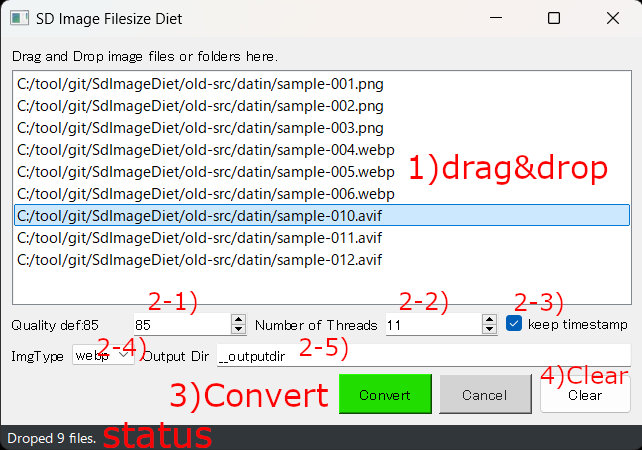
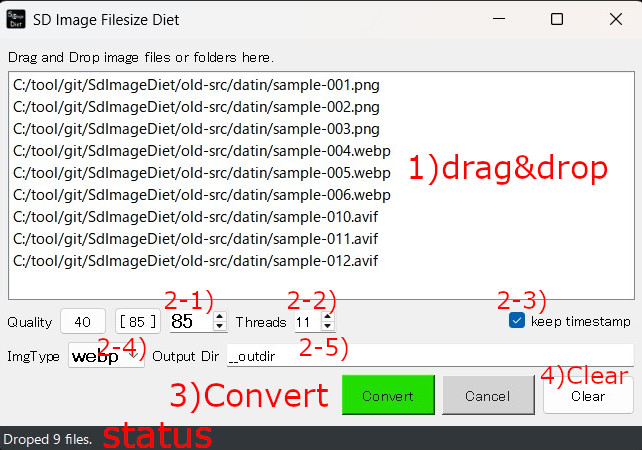
0.1.7 QualityとImgTypeを少し目立つように修正、他

diff --git a/SdImageDietGUI.py b/SdImageDietGUI.py
@@ -23,6 +23,8 @@ OUTPUT_DIRNAME = "setting-outputdirname"
 SOUND_NG = "sound-ng"
 SOUND_OK = "sound-ok"
 
+QUALITY_LIST = (40,85)
+
 # マルチスレッド用ワーカークラス
 class Worker(QRunnable):
     def __init__(self, infile, outdir, imgtype, quality, keepTimestamp, on_complete):
@@ -105,19 +107,26 @@ class MainWindow(QMainWindow):
         # 設定値レイアウト１（横並び）
         self.settingLayout1 = QHBoxLayout()
         # 品質設定のラベルとスピンボックス
-        self.settingLayout1.addWidget(QLabel('Quality def:85'))
+        self.settingLayout1.addWidget(QLabel('Quality'))
+        self.convertBtns = []
+        for i in range(len(QUALITY_LIST)):
+            self.convertBtns.append(QPushButton(str(QUALITY_LIST[i])))
+            self.convertBtns[i].setFixedWidth(48)
+            self.settingLayout1.addWidget(self.convertBtns[i])
         self.qualitySpinBox = QSpinBox()
         self.qualitySpinBox.setMinimum(1)  # 最小1
         self.qualitySpinBox.setMaximum(100)  # 最大100
         self.qualitySpinBox.setValue(self.quality)  # 初期値85
+        self.qualitySpinBox.setStyleSheet("QSpinBox { font-size: 20px; font-weight: bold; }")
         self.settingLayout1.addWidget(self.qualitySpinBox)
         # スレッド数設定のラベルとスピンボックス
-        self.settingLayout1.addWidget(QLabel('Number of Threads'))
+        self.settingLayout1.addWidget(QLabel('Threads'))
         self.threadSpinBox = QSpinBox()
         self.threadSpinBox.setMinimum(1)
         self.threadSpinBox.setMaximum(os.cpu_count())  # 最大PCのCPUコア数
         self.threadSpinBox.setValue(self.threadsnum)  # デフォルト値はCPUコア数-1
         self.settingLayout1.addWidget(self.threadSpinBox)
+        self.settingLayout1.addStretch()
         # タイムスタンプ維持のチェックボックス
         self.keepTimestampCheckBox = QCheckBox('keep timestamp')
         self.keepTimestampCheckBox.setChecked(self.keepTimestamp)
@@ -131,6 +140,7 @@ class MainWindow(QMainWindow):
         self.imgTypeComboBox = QComboBox()
         self.imgTypeComboBox.addItems(["jpg", "webp"])
         self.imgTypeComboBox.setCurrentText(self.imgtype)
+        self.imgTypeComboBox.setStyleSheet("QComboBox { font-size: 20px; font-weight: bold; }")
         self.settingLayout2.addWidget(self.imgTypeComboBox)
         # 出力フォルダ名のラベルとテキストボックス
         self.settingLayout2.addWidget(QLabel('Output Dir'))
@@ -197,6 +207,12 @@ class MainWindow(QMainWindow):
         self.keepTimestampCheckBox.stateChanged.connect(self.update_keeptimestamp_check)
         self.imgTypeComboBox.currentIndexChanged.connect(self.update_imgtype_changed)
         self.outdirLineEdit.textChanged.connect(self.update_outdir_changed)
+
+        # クオリティをボタンで指定
+        for i in range(len(QUALITY_LIST)):
+            self.convertBtns[i].clicked.connect(lambda _, i=i: self.qualitySpinBox.setValue(QUALITY_LIST[i]))
+        # Qualty指定のボタンを強調する
+        self.update_jpgquality_values()
 
         # スレッドプールの初期化
         self.thread_pool = QThreadPool()
@@ -296,6 +312,14 @@ class MainWindow(QMainWindow):
     # 設定値更新時処理
     def update_jpgquality_values(self):
         self.quality = self.qualitySpinBox.value()
+        index = -1
+        if self.quality in QUALITY_LIST:
+            index = QUALITY_LIST.index(self.quality)
+        for i in range(len(QUALITY_LIST)):
+            val = str(QUALITY_LIST[i])
+            if i == index:
+                val = f"[ {val} ]"
+            self.convertBtns[i].setText(val)
     def update_threadsnum_values(self):
         self.threadsnum = self.threadSpinBox.value()
     def update_keeptimestamp_check(self):

diff --git a/readme.md b/readme.md
@@ -1,4 +1,4 @@
-## SdImageDietについて 0.1.6
+## SdImageDietについて 0.1.7
 StableDiffusionで作成したPNG,JPG,WEBP,AVIF画像のプロンプト情報を保持したまま【**マルチスレッド**】で高速にJPG,WEBP画像に変換します  
 主にPrompt情報は後で参考にしたいが、画像品質を犠牲にしてファイルサイズを小さくしたい利用シーンを想定しています  
 また、比較的どうでも良い画像ファイルの容量削減なんかにも便利です  
@@ -23,6 +23,11 @@ StableDiffusionで作成したPNG,JPG,WEBP,AVIF画像のプロンプト情報を
 - Pythonのインストール（SD標準の3.10.6推奨）  
 - zipファイルを解凍  
 - 解凍したフォルダ内の「SdImageDietGUI-install.ps1」を右クリックして「PowerShellで実行」を選択  
+> [!WARNING]
+> シェルスクリプトはデフォルトでは動作しない設定となっています  
+> その場合はターミナルを管理者として実行し、以下のコマンドを実行してください（比較的安全な方式）  
+> Set-ExecutionPolicy Unrestricted -Scope CurrentUser -Force
+
 - イントールの最後にデスクトップにリンクをコピーするかどうかを聞いてきます  
 「"Do you want to copy the shortcut to your desktop? (y or enter/n)」  
 必要があれば「y」入力後、もしくはそのまま「enter」キー  
@@ -43,7 +48,6 @@ StableDiffusionで作成したPNG,JPG,WEBP,AVIF画像のプロンプト情報を
 ![SdImageDiet-image002](docs/SdImageDiet-image002.jpg)
 #### 1) アプリ上に複数の画像ファイルか単一フォルダをドラッグ＆ドロップしてください  
 PNG、JPG、WEBP、AVIFの画像ファイルの入力に対応しています  
-
 > [!WARNING]
 > - フォルダの場合は下層フォルダを再帰的にチェックします。あまりにも上層フォルダをDropしないように注意してください  
 > - 入力が「test.png、test.webp」でjpg変換の場合、出力ファイル名がどちらもtest.jpgになりますのでファイル名重複でエラーとします  
@@ -51,10 +55,13 @@ PNG、JPG、WEBP、AVIFの画像ファイルの入力に対応しています
 
 #### 2) 設定値の変更  
 ###### 2-1) Quality
-品質は1-100が指定でき、デフォルト値は85※  
-※ jpgの場合85、webpの場合40くらいが個人的に我慢できる限界の値  
+品質は1-100が指定でき、デフォルト値は85※（ボタンにより40,85を簡易に変更可能）  
+※ webpの場合40、jpgの場合85くらいが個人的に我慢できる限界の値  
+> [!TIP]
+> 良く使う値があればSdImageDietGUI.pyの以下の個所を変更または増減してください  
+> QUALITY_LIST = (40,85) -> (50,70,90)など  
 
-###### 2-2) Number of Threads
+###### 2-2) Threads
 スレッド数は1-「CPUの最大スレッド数」が指定でき、デフォルト値は「CPUの最大スレッド数 - 1」※  
 ※CPUの最大スレッド数を指定すると変換中はOS動作がカクカクするかもしれません  
 
@@ -116,6 +123,7 @@ options:
 > 複数フォルダにまたがるファイルの入力をを禁止して、入力パスに対してoutput dirを付与する方が使い勝手が良いのかもしれません。。（検討中）  
 
 ## 変更履歴
+- 0.1.7 QualityとImgTypeを少し目立つように修正、他
 - 0.1.6 主にreadmeの修正、またメタ情報を持たないファイルを入力した場合に落ちる場合があったのを修正
 - 0.1.5 エラーハンドリングの追加（処理中に画像の移動や削除をした場合を対処）など
 - 0.1.4 クリアボタンを追加、readmeの修正など
